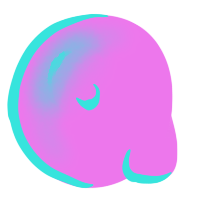
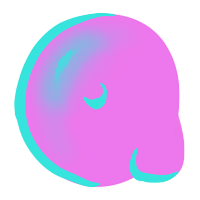
GUESS WHO BIT OFF MORE THAN THEY COULD CHEW.

Changed region(s): [[0.03, 0.06, 0.93, 0.96]]

diff --git a/assets/javascript/game.js b/assets/javascript/game.js
@@ -1,34 +1,94 @@
-var gameStatus;
+//VARIABLES AND OBJECTS
 var objects = {};
+var details = {};
 var theme = "light";
+var themeMod = "est";
 
-function hangmanStart() {
-    gameBackground = new component(800, 500, hangmanGame.background, 0, 0, "image");
-    loadLetters();
-    hangmanGame.start();
-}
+var glow = {
+    opacity: 0.9,
+    nextOpacity: 0.4,
+    update: function () {
+        if (glow.opacity > glow.nextOpacity) {
+            hangmanGame.context.globalAlpha = glow.opacity;
+            backgroundGlow.update();
+            glow.opacity -= 0.01;
+            glow.opacity = round(glow.opacity, 100);
+
+            if (glow.opacity === glow.nextOpacity) {
+                glow.nextOpacity = 0.9;
+            }
+        } else if (glow.opacity < glow.nextOpacity) {
+            hangmanGame.context.globalAlpha = glow.opacity;
+            backgroundGlow.update();
+            glow.opacity += 0.01;
+            glow.opacity = round(glow.opacity, 100);
+
+            if (glow.opacity === glow.nextOpacity) {
+                glow.nextOpacity = 0.1;
+            }
+        }
+    }
+};
 
 var hangmanGame = {
     canvas: document.createElement("canvas"),
     status: "menu",
-    background: `./assets/images/${theme}/background.png`,
+    frameCount: 1,
+    menuPos: 0,
+    guesses: 10,
+    menuWave: 75,
     start: function () {
         this.canvas.width = 800;
         this.canvas.height = 500;
         this.context = this.canvas.getContext("2d");
         this.canvas.classList.add("canvasFormatting");
+        this.canvas.onclick = function test(e) {
+            if (e.clientX > 528 && e.clientX < 723 && e.clientY > 318 && e.clientY < 414 && hangmanGame.status === "menu") {
+                hangmanGame.status = "game";
+                hangmanGame.reset();
+            }
+        };
         document.body.insertBefore(this.canvas, document.body.childNodes[0]);
-        this.interval = setInterval(updateGameArea, 200);
+        this.interval = setInterval(updateGameArea, 20);
     },
     clear: function () {
         this.context.clearRect(0, 0, this.canvas.width, this.canvas.height);
+    },
+    updateFrameCount: function () {
+        if ((this.frameCount + 1) <= 50) {
+            this.frameCount++;
+        } else {
+            this.frameCount = 1;
+        }
+    },
+    reset: function () {
+        objects = {};
     }
+};
+
+
+//FUNCTIONS
+function hangmanStart() {
+    gameBackground = new component(800, 500, `./assets/images/${theme + themeMod}/background.png`, 0, 0, "image");
+    backgroundGlow = new component(800, 500, `./assets/images/${theme + themeMod}/glow.png`, 0, 0, "image");
+    loadLetters();
+    hangmanGame.start();
 }
 
 function updateGameArea() {
+    hangmanGame.context.globalAlpha = 1;
+    hangmanGame.updateFrameCount();
     hangmanGame.clear();
     gameBackground.update();
-    updateLetters();
+
+    if (hangmanGame.status === "menu") {
+        updateLetters();
+    } else if (hangmanGame.status === "game") {
+        //do game
+    }
+
+    // details.update();
+    glow.update();
 }
 
 function component(width, height, src, x, y, type) {
@@ -39,8 +99,6 @@ function component(width, height, src, x, y, type) {
     }
     this.width = width;
     this.height = height;
-    this.speedX = 0;
-    this.speedY = 0;
     this.x = x;
     this.y = y;
     this.update = function () {
@@ -60,17 +118,61 @@ function component(width, height, src, x, y, type) {
 function loadLetters() {
     var hangman = "hangman";
 
-    for(var i = 0; i < 7; i++){
-        objects[i] = new component(100, 100, `./assets/images/letters/${hangman[i]}.png`, (70 + (i * 110)), -250, "image");
+    for (var i = 0; i < 7; i++) {
+        objects[i] = new component(120, 120, `./assets/images/letters/${hangman[i]}.png`, (10 + (i * 110)), -250, "image");
+        objects[i].offset = 50;
+        objects[i].letterWave = 0;
+        objects[i].waveDir = "up";
+        objects[i].delay = 5 * i;
     }
+
+    objects.startButton = new component(200, 100, "./assets/images/letters/start.png", 300, 300, "image");
 }
 
 function updateLetters() {
-    for(var i = 0; i < Object.keys(objects).length; i++) {
-        if(objects[i].y <= 50) {
-            objects[i].y += 5;
+    for (var i = 0; i < Object.keys(objects).length - 1; i++) {
+        if (hangmanGame.menuPos === 0) {
+            if (objects[i].y !== 100) {
+                objects[i].y += 5;
+            } else {
+                hangmanGame.menuPos = 1;
+            }
+        } else {
+            if (hangmanGame.menuWave === 0 && objects[i].letterWave === 0) {
+                hangmanGame.menuWave = 75;
+                for (var n = 0; n < Object.keys(objects).length - 1; n++) {
+                    objects[n].letterWave = 1;
+                }
+            } else {
+                if (objects[i].delay !== 0 && objects[i].letterWave === 1) {
+                    objects[i].delay--;
+                } else {
+                    if (objects[i].waveDir === "up" && objects[i].y !== 70 && objects[i].letterWave === 1) {
+                        objects[i].y -= 2;
+                        if (objects[i].y <= 70) {
+                            objects[i].waveDir = "down";
+                        }
+                    } else if (objects[i].waveDir === "down" && objects[i].y !== 100 && objects[i].letterWave === 1) {
+                        objects[i].y += 2;
+                    } else if (objects[i].waveDir === "down" && objects[i].y >= 100) {
+                        objects[i].letterWave = 0;
+                        objects[i].delay = 5 * i;
+                        objects[i].waveDir = "up";
+                    }
+                }
+            }
         }
 
         objects[i].update();
     }
+
+    if (hangmanGame.menuWave > 0 && objects[6].letterWave !== 1) {
+        hangmanGame.menuWave--;
+    }
+
+    objects.startButton.update();
+}
+
+function round(num, amount) {
+    return (Math.round(num * amount) / amount);
 }
